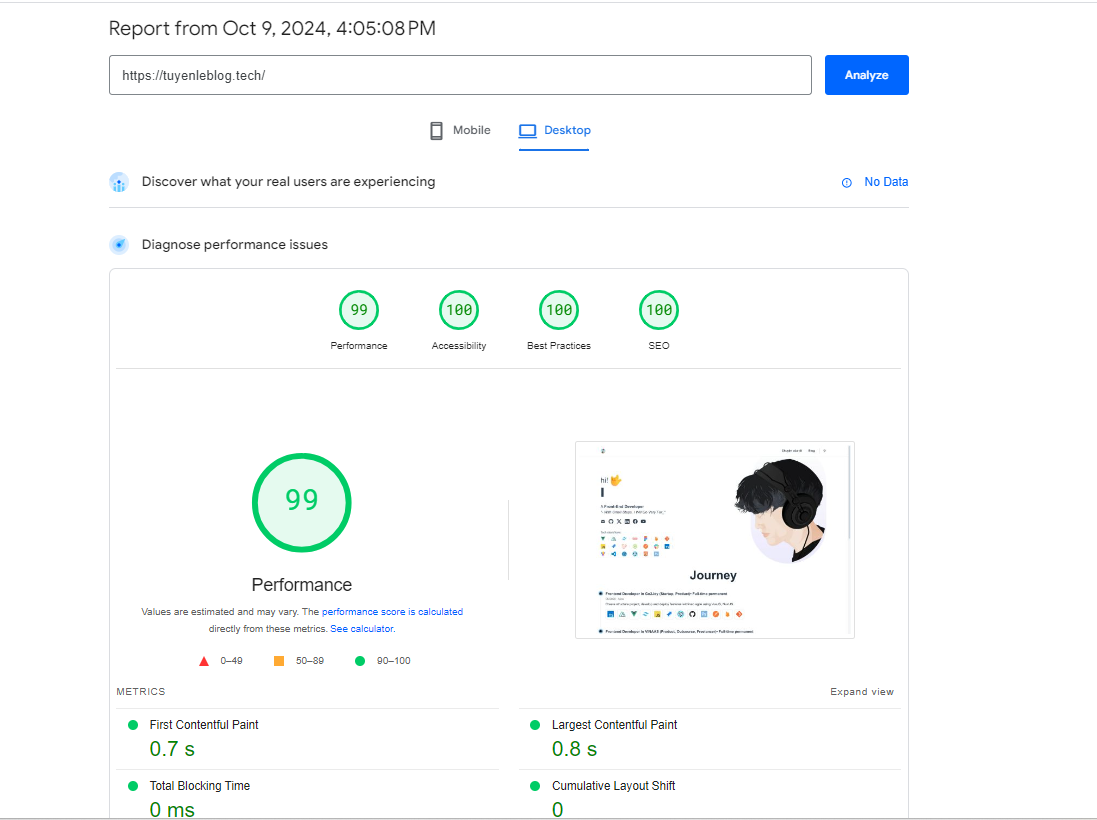
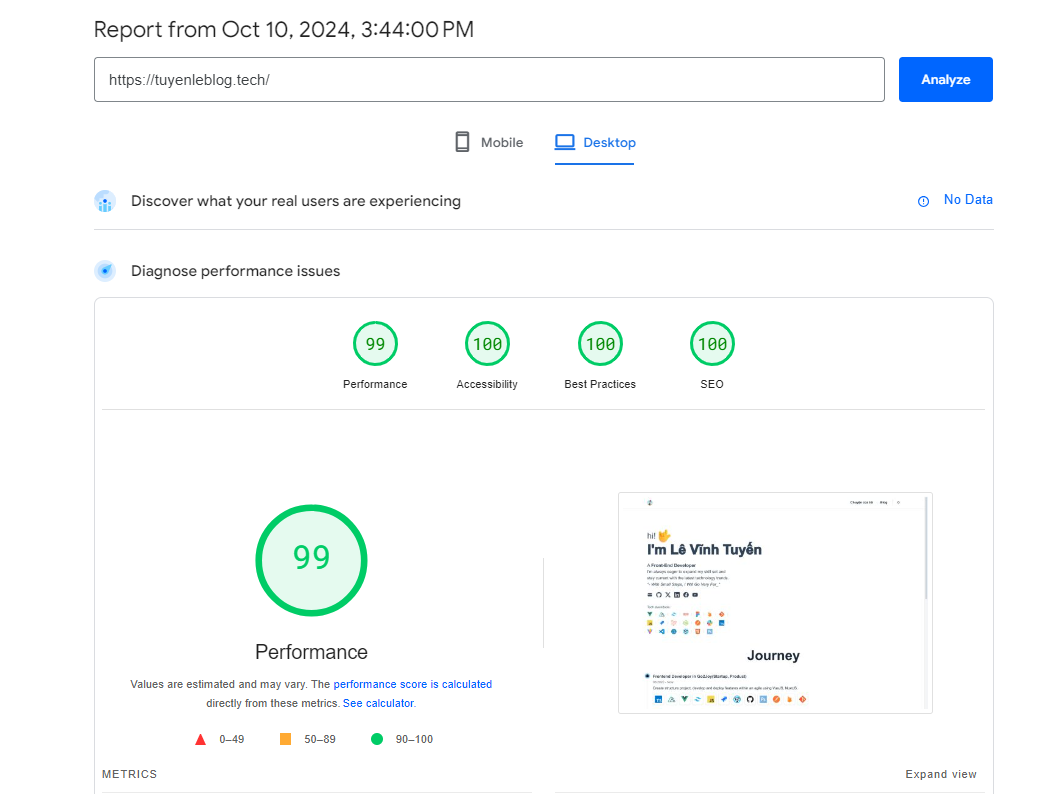
update page

diff --git a/components/awesome/Welcome.vue b/components/awesome/Welcome.vue
@@ -1,6 +1,8 @@
 <script lang="ts" setup>
 import { ref } from 'vue'
 
+const { current } = useAwesomeScreen()
+
 const phrases = [`I'm Lê Vĩnh Tuyến`, `I learn, I develop...`]
 
 const currentPhraseIndex = ref(0)
@@ -636,9 +638,12 @@ setTimeout(() => {
             <div
               class="pointer-events-none absolute -top-36 right-0 z-0 hidden select-none lg:block"
             >
-              <div class="relative h-[590px] w-[603px]">
+              <div
+                v-if="current === 'lg' || current === 'xl'"
+                class="relative h-[590px] w-[603px]"
+              >
                 <div
-                  class="from-accent-400/20 via-accent-400/0 absolute top-20 right-0 h-[526px] w-[457px] rounded-full bg-gradient-to-t dark:from-accent-600/10 dark:via-accent-600/0"
+                  class="from-accent-400/20 via-accent-400/0 absolute top-20 right-0 h-[520px] w-[416px] rounded-full bg-gradient-to-t dark:from-accent-600/10 dark:via-accent-600/0"
                 >
                   <div
                     class="absolute right-0 bottom-0 overflow-hidden hidden lg:block"
@@ -646,9 +651,14 @@ setTimeout(() => {
                     <div style="opacity: 1s">
                       <img
                         format="webp"
-                        width="457"
-                        height="526"
+                        width="416"
+                        height="520"
                         alt="me"
+                        :loading="
+                          current === 'lg' || current === 'xl'
+                            ? 'lazy'
+                            : 'eager'
+                        "
                         src="/images/me.webp"
                         class="hidden lg:block dark:brightness-[.82] rounded-full"
                         style="color: transparent"
